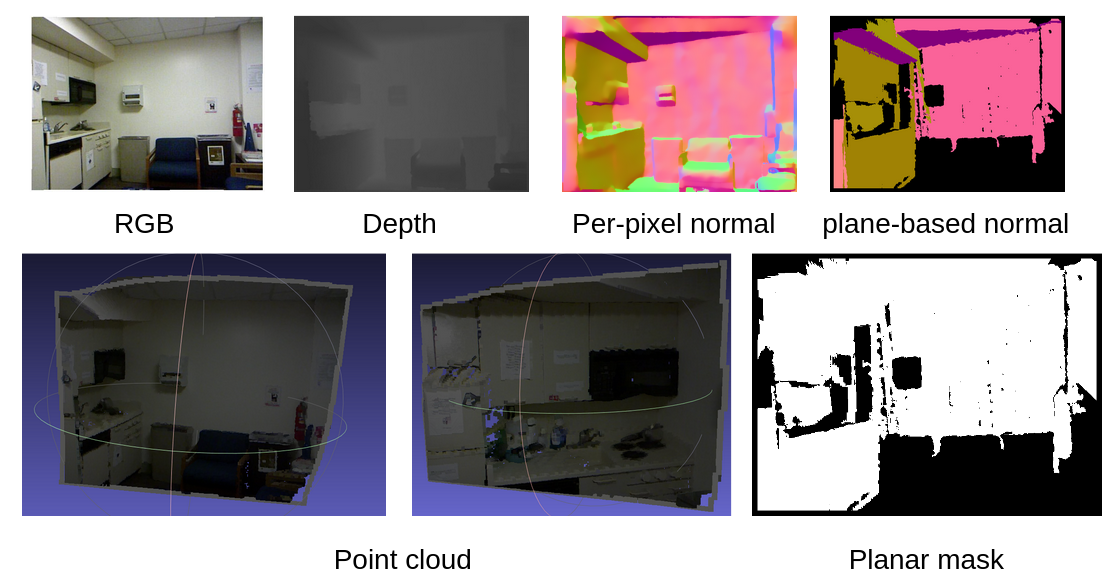
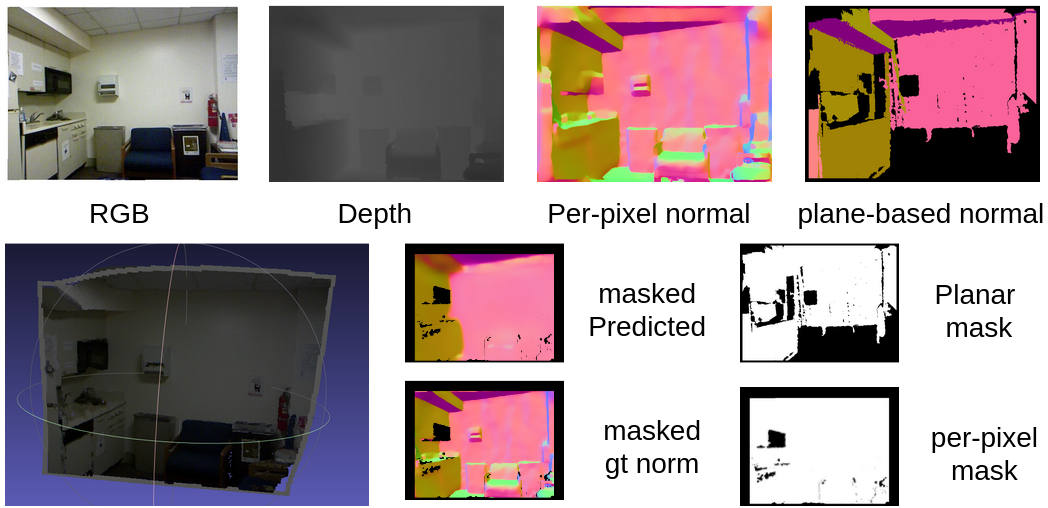
mask

diff --git a/extractMask.py b/extractMask.py
@@ -1,0 +1,27 @@
+#!/usr/bin/env python2
+# -*- coding: utf-8 -*-
+import numpy as np
+import matplotlib.pyplot as plt
+import scipy.io as sio
+import h5py
+import os 
+from PIL import Image
+f=h5py.File("masks.mat")
+maskData=f["masks"]
+images=np.array(maskData)
+
+ 
+rgb_path_converted='mask/'
+if not os.path.isdir(rgb_path_converted):
+    os.makedirs(rgb_path_converted)
+
+images_number=[]
+for i in range(len(maskData)):
+    images_number.append(images[i])
+    mask = np.uint8(images_number[i])*255
+    new_mask = Image.fromarray(mask).convert('P')
+    img = new_mask.transpose(Image.ROTATE_270)
+    iconpath = rgb_path_converted + str(i) + '.png'
+    img.save(iconpath, optimize=True)
+
+

diff --git a/README.md b/README.md
@@ -12,11 +12,11 @@ A few steps to achieve the goal.  I hope it can make your research easier.
 
 The NYUv2 dataset images can be downloaded from the [NYU website](https://cs.nyu.edu/~silberman/datasets/nyu_depth_v2.html), which has 1449 images.
 
-The per-pixel normal maps can be downloaded from [here](https://drive.google.com/file/d/1FbOaH0G5_BI6yOjuzgBRcMuKjFSoUWB0/view?usp=sharing).
+The per-pixel normal maps and masks can be downloaded from [here](https://drive.google.com/file/d/1FbOaH0G5_BI6yOjuzgBRcMuKjFSoUWB0/view?usp=sharing) and [here](https://drive.google.com/file/d/1Uo85eWtrTd4BWsyamCuBXP9UiB8MLEPh/view?usp=sharing), respectively. 
 
 **Step 2: generate RGB, depth and per-pixel normal images**
 
-Let *extractRGBD.py* and *extractNormal.py* be in the same file with two .mat files.  Please make sure that you installed following libs.
+Let *extractRGBD.py*,  *extractNormal.py* and *extractMask.py* be in the same folder with three .mat files.  Please make sure that you installed following libs.
 
 ```
 # The following libs are needed.
@@ -33,6 +33,8 @@ Then, run following commends to generate images:
 python extractRGBD.py
 
 python extractNormal.py
+
+python extractMask.py
 ```
 
 ----
